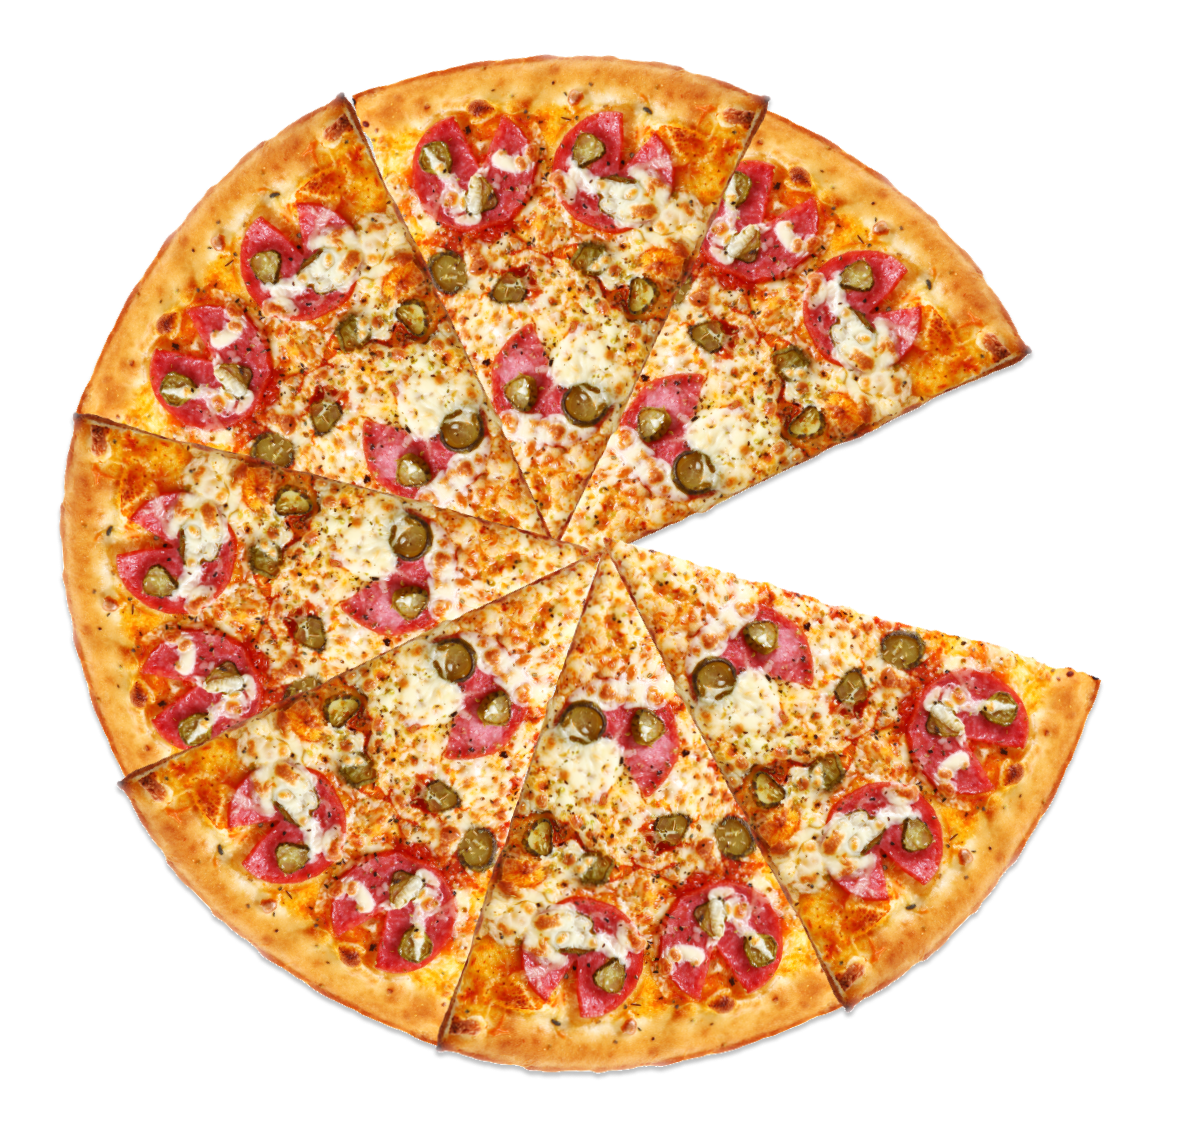
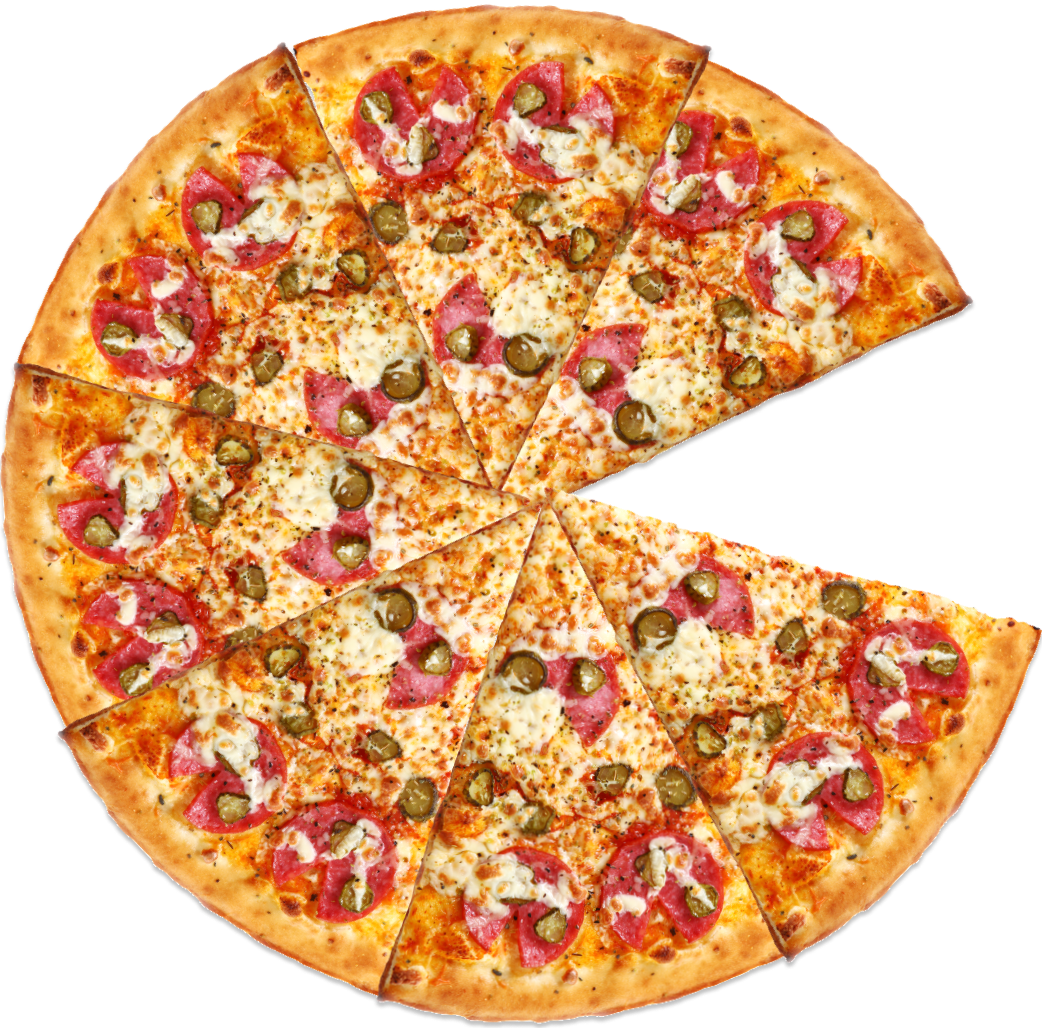
added missing images

diff --git a/src/images/images.ts b/src/images/images.ts
@@ -21,7 +21,10 @@ const Coffee = require('./pizzaAnimation/coffee.png');
 const CoffeeCup = require('./pizzaAnimation/coffeeCup.png');
 const Momos = require('./pizzaAnimation/momos.png');
 const Paneer = require('./pizzaAnimation/paneer.png');
+const Pizza = require('./pizzaAnimation/Pizza.png');
 const PizzaSlice = require('./pizzaAnimation/pizzaSlice.png');
+const Fruits = require('./pizzaAnimation/fruits.png');
+const DryFruits = require('./pizzaAnimation/dryFruits.png');
 
 const M5552401 = require('./cars/5552401.png');
 const M7383264 = require('./cars/7383264.png');
@@ -38,7 +41,10 @@ const Images = {
   CoffeeCup,
   Momos,
   Paneer,
+  Pizza,
   PizzaSlice,
+  Fruits,
+  DryFruits,
 
   BlackPanthoor,
   BlackWidow,
